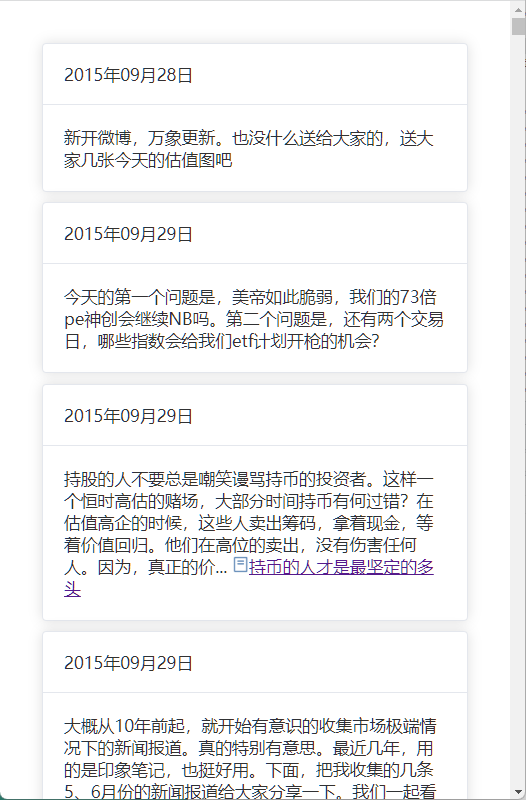
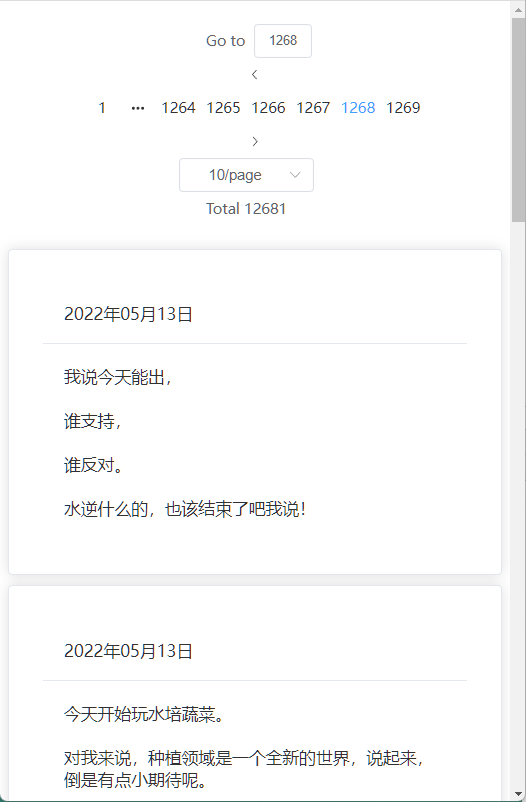
add pagination 分页

diff --git a/src/App.vue b/src/App.vue
@@ -6,10 +6,31 @@ const startTime = ref(botData.export_data[5687069307].start_at_str);
 const endTime = ref(botData.export_data[5687069307].end_at_str);
 const total = ref(botData.export_data[5687069307].total_export_mblog_count);
 const bot = ref(botData.export_data[5687069307].record_list);
+const botPageData = ref({});
+botPageData.value = bot.value.slice(0, 10);
+
+const currentPage = ref(1);
+const pageSize = ref(10);
+
+const handleSizeChange = (val) => {
+  botPageData.value = bot.value.slice((currentPage.value - 1) * val, currentPage.value * val);
+}
+const handleCurrentChange = (val) => {
+  botPageData.value = bot.value.slice((val - 1) * pageSize.value, val * pageSize.value);
+}
 </script>
 
 <template>
-  <el-card class="box-card" v-for="item of bot" :key="item.id">
+  <el-pagination
+                 v-model:currentPage="currentPage"
+                 v-model:page-size="pageSize"
+                 :page-sizes="[10, 20, 50, 100]"
+                 layout="jumper, prev, pager, next, sizes, total"
+                 :total="total"
+                 @size-change="handleSizeChange"
+                 @current-change="handleCurrentChange"
+                 class="pagination" />
+  <el-card class="box-card" v-for="item of botPageData" :key="item.id">
     <template #header>
       <div class="card-header">
         <span>{{ dayjs(item.created_at).format('YYYY年MM月DD日') }}</span>
@@ -21,12 +42,23 @@ const bot = ref(botData.export_data[5687069307].record_list);
 
 <style lang="scss">
 #app {
-  max-width: 1280px;
-  margin: 0 auto;
-  padding: 2rem;
-  font-weight: normal;
+  .pagination {
+    display: flex;
+    justify-content: center;
+    margin: 20px 0;
+  }
+
+  @media (max-width: 700px) {
+    .pagination {
+      flex-direction: column;
+    }
+  }
 
   .box-card {
+    max-width: 1280px;
+    margin: 0 auto;
+    padding: 2rem;
+    font-weight: normal;
     margin-bottom: 10px;
   }
 }
